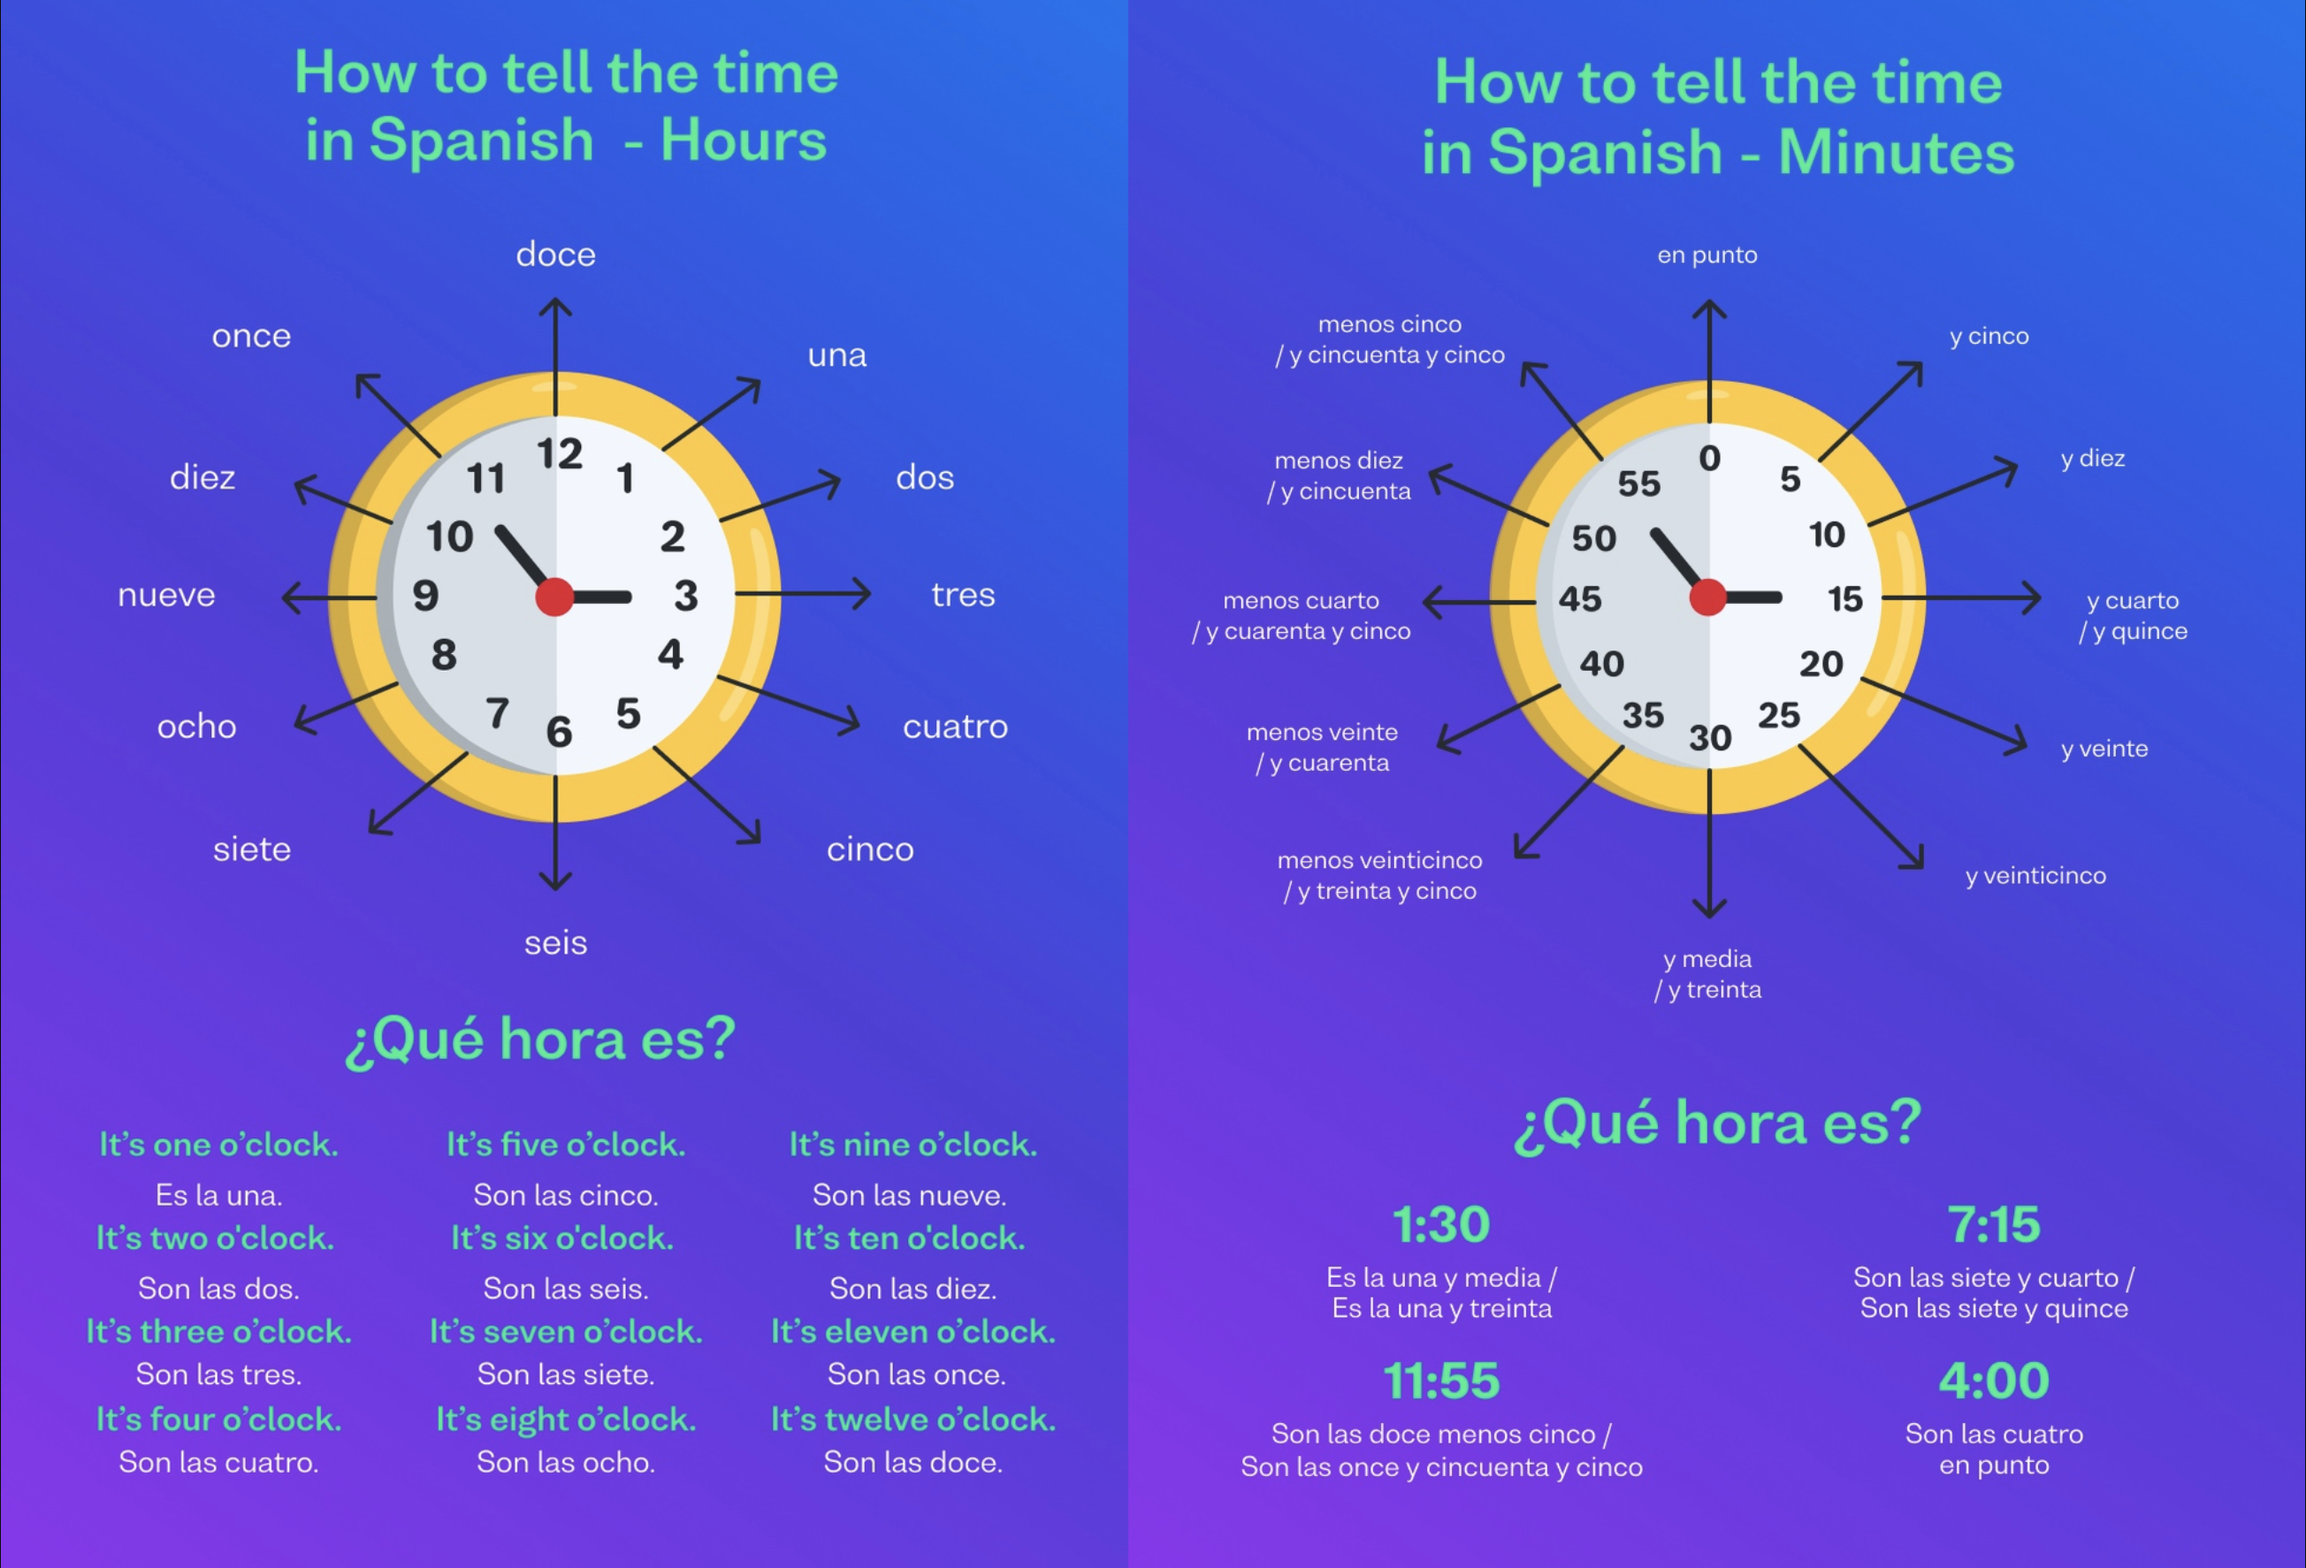
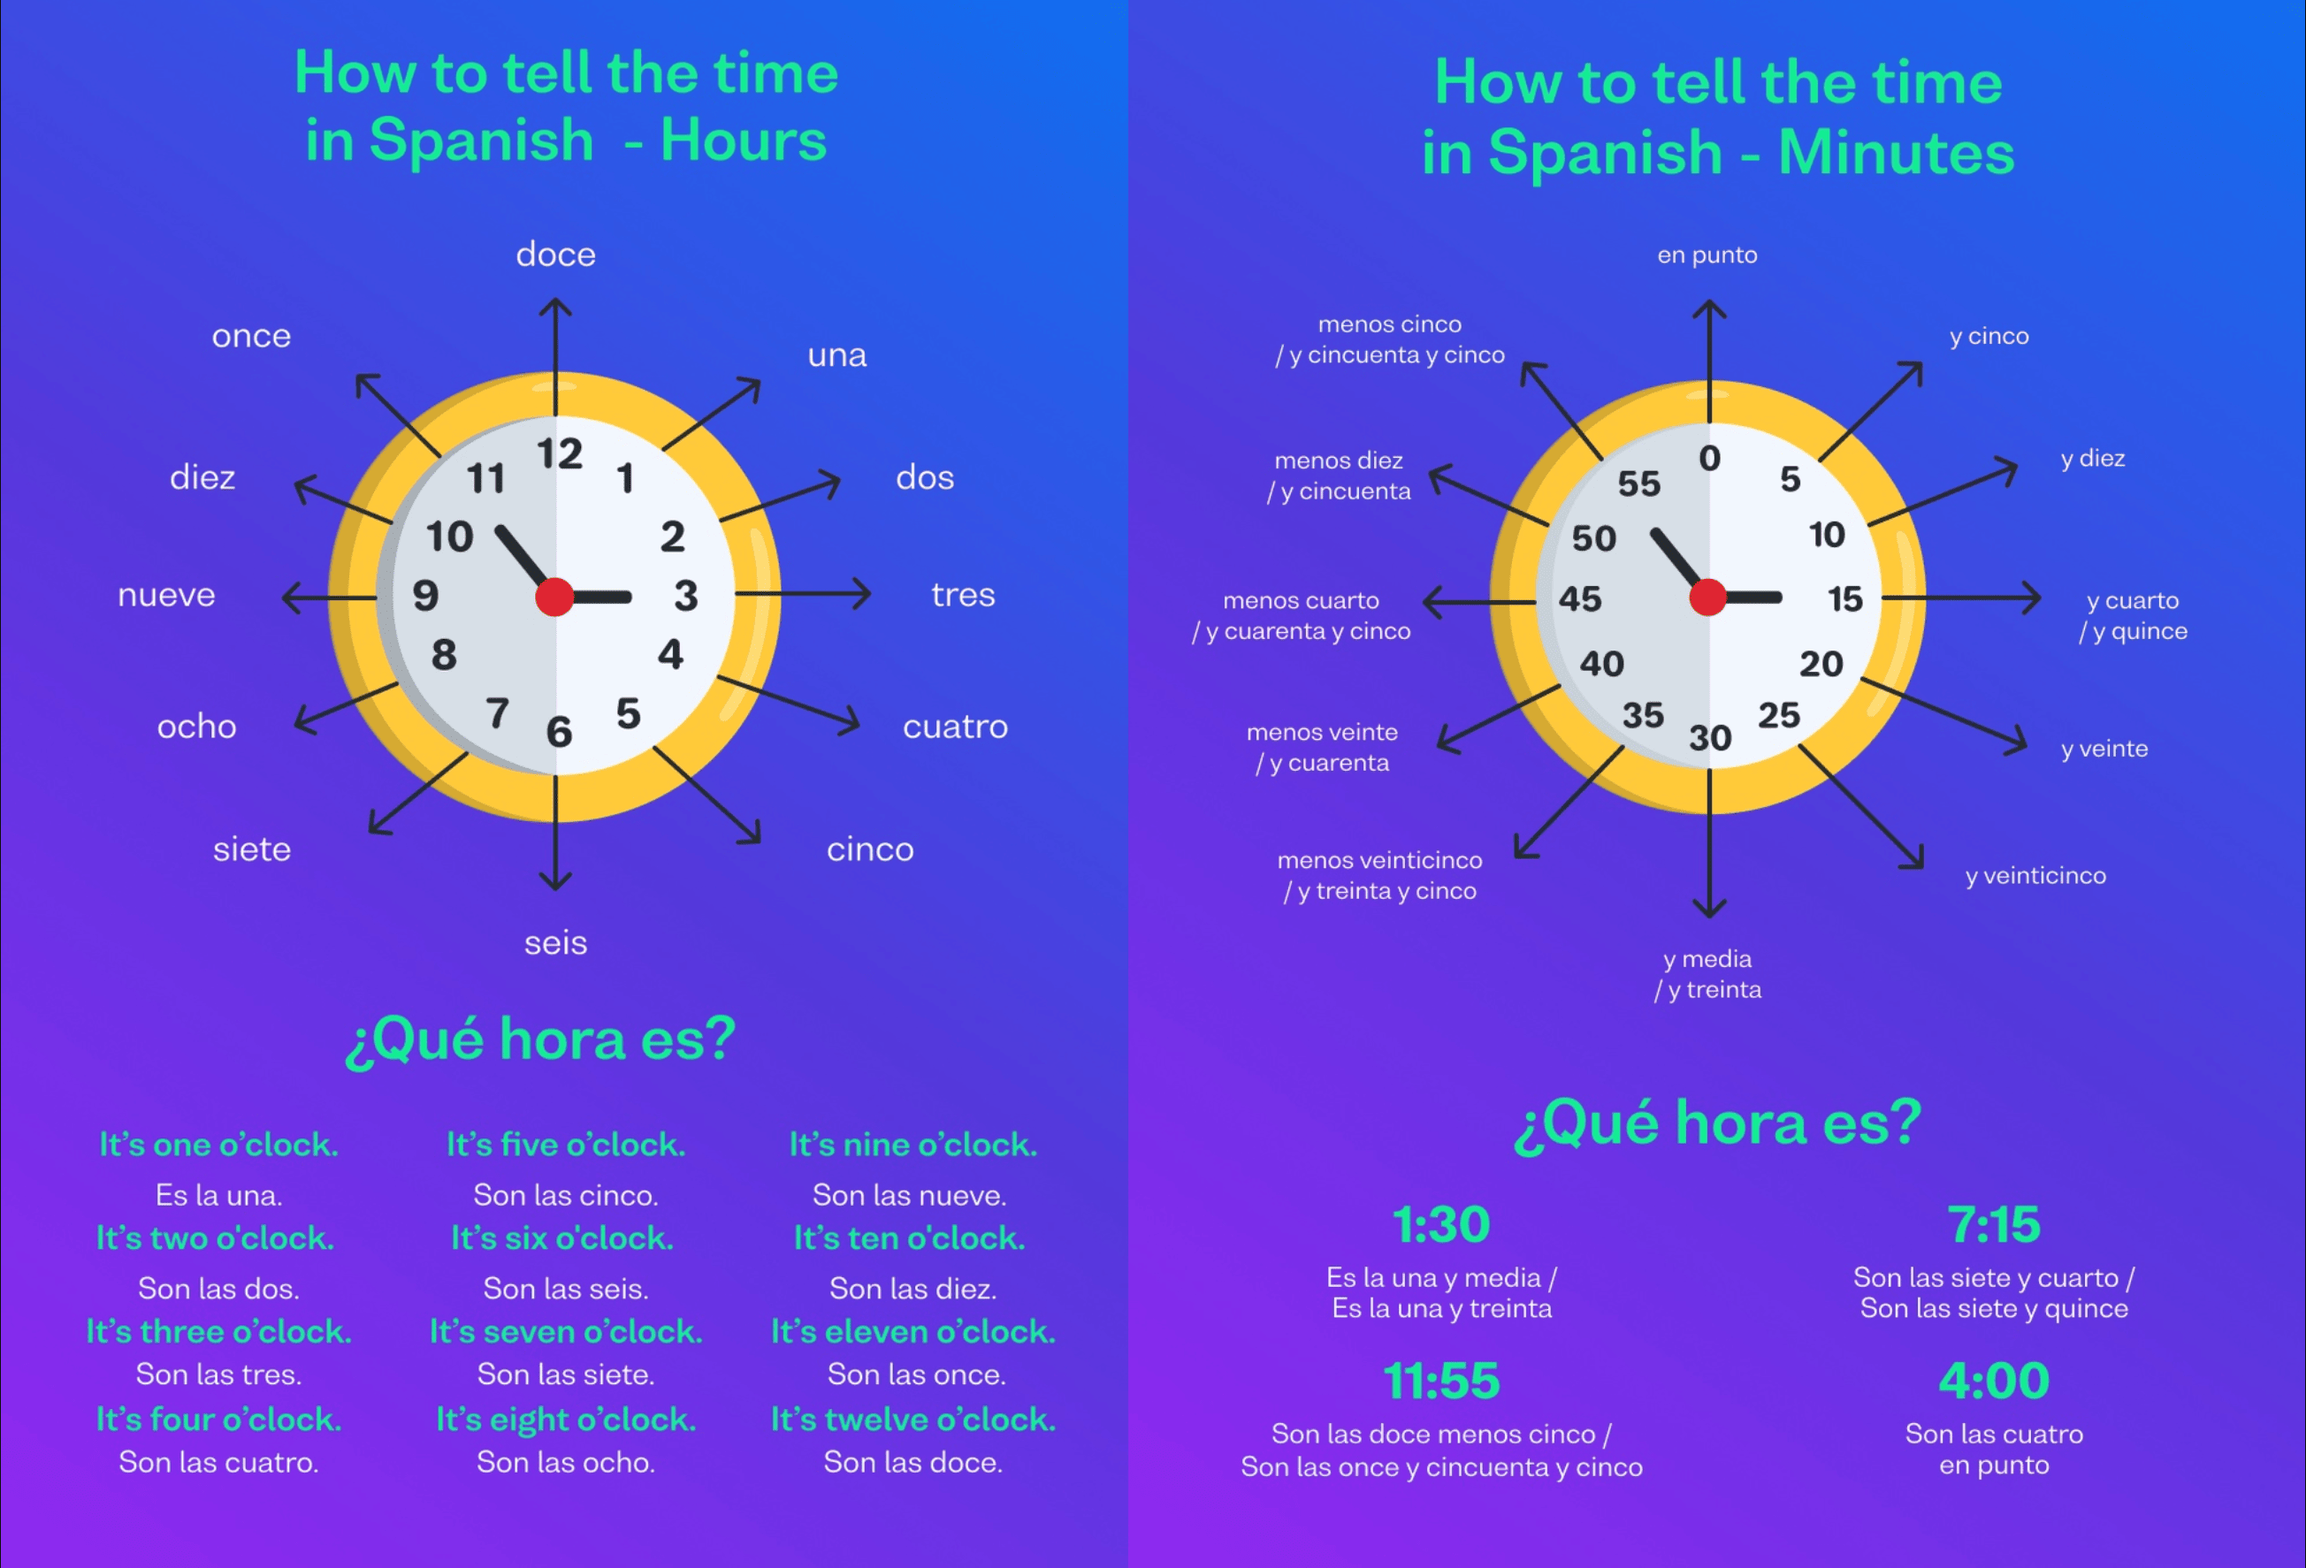
Reduced image file size

diff --git a/timer/index.html b/timer/index.html
@@ -68,7 +68,7 @@
         </div>
       </div>
       <div class="row">
-        <div class="col-lg-6 col-md-6 col-sm-6 text-start">v1.7.1</div>
+        <div class="col-lg-6 col-md-6 col-sm-6 text-start">v1.7.2</div>
         <div class="col-lg-6 col-md-6 col-sm-6 text-end">
           Developed by:
           <a
